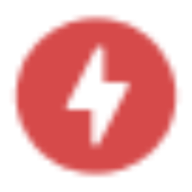
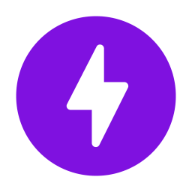
feat: Implement initial application layout, metadata, theme provider, and PWA assets.

diff --git a/src/app/layout.tsx b/src/app/layout.tsx
@@ -8,8 +8,11 @@ import ThemeProvider from "@/components/providers/ThemeProvider";
 import { nunitoSans } from "@/lib/fonts";
 
 export const metadata: Metadata = {
-  title: "Create Next App",
-  description: "Generated by create next app",
+  title: "Flash",
+  description: "Flash - Shorten, share and track your links",
+  icons: {
+    icon: "/favicon.ico",
+  },
 };
 
 export const viewport: Viewport = {
